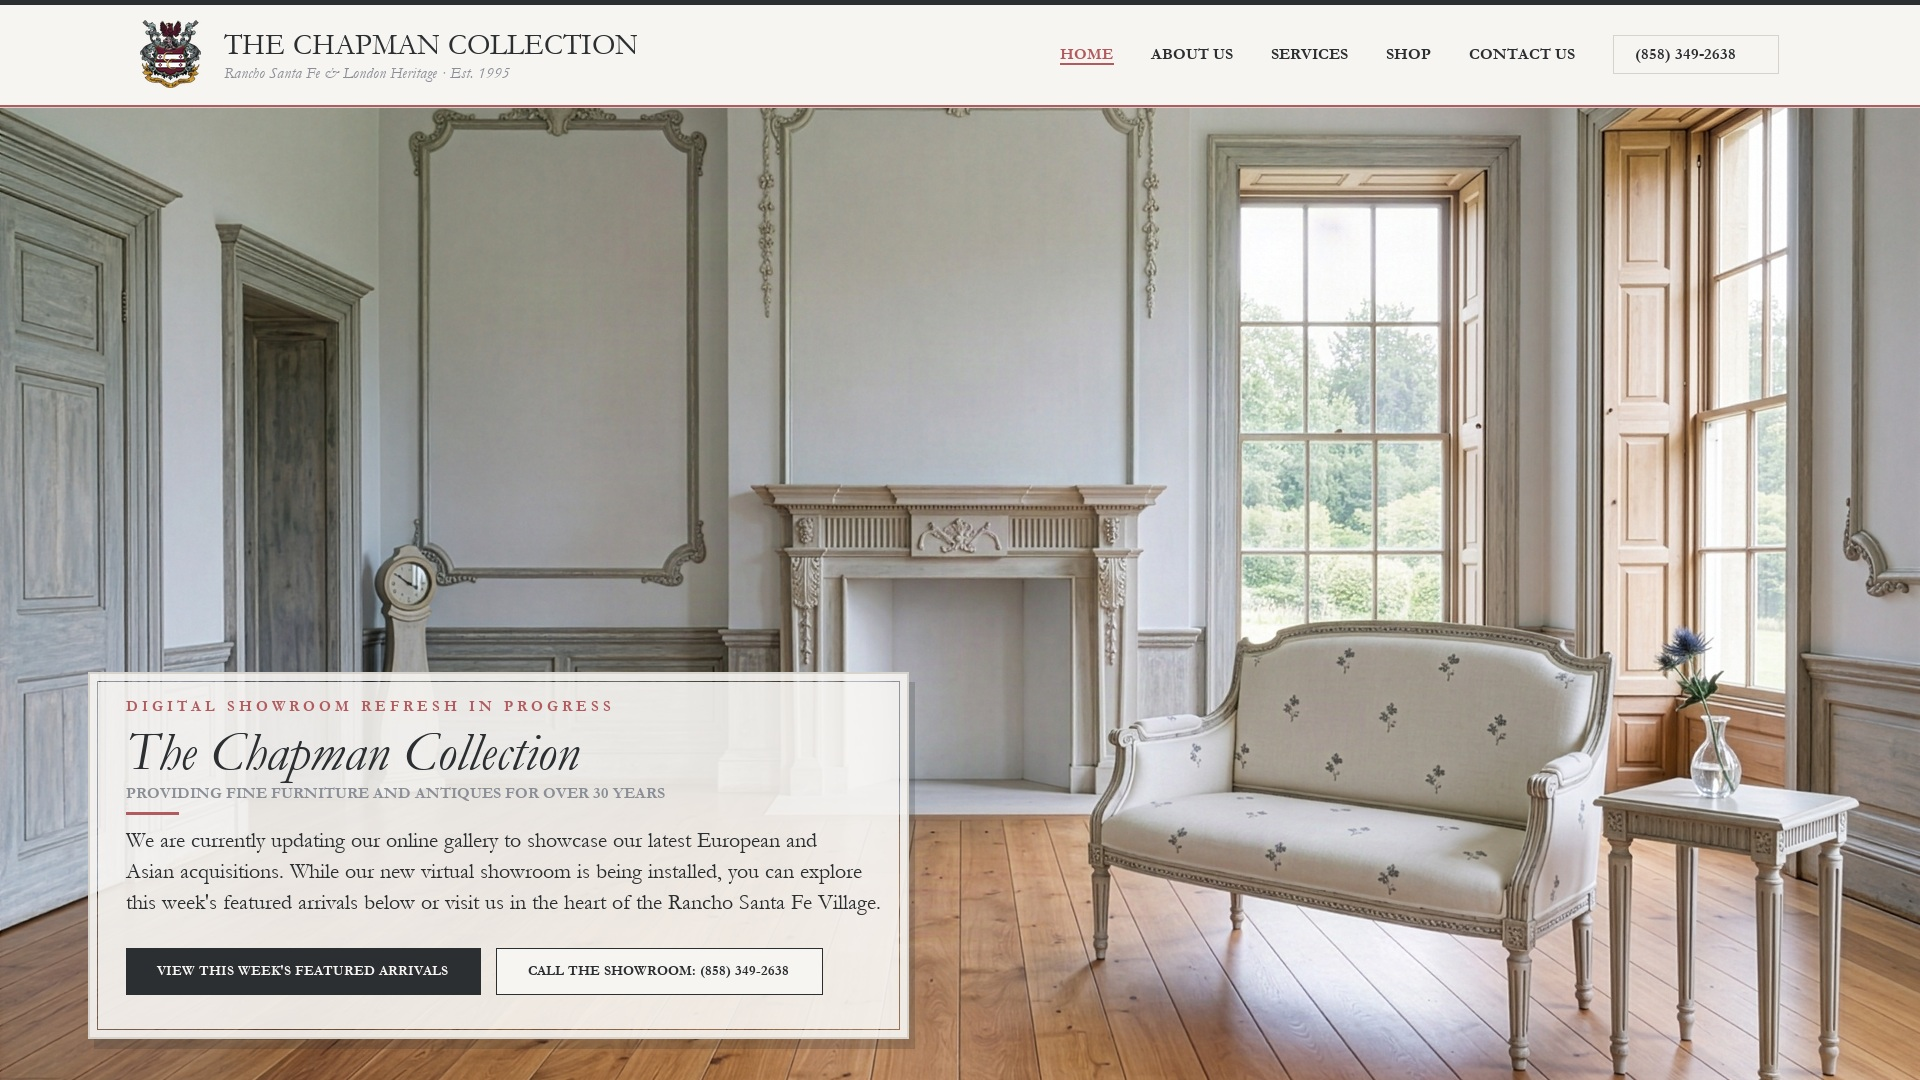
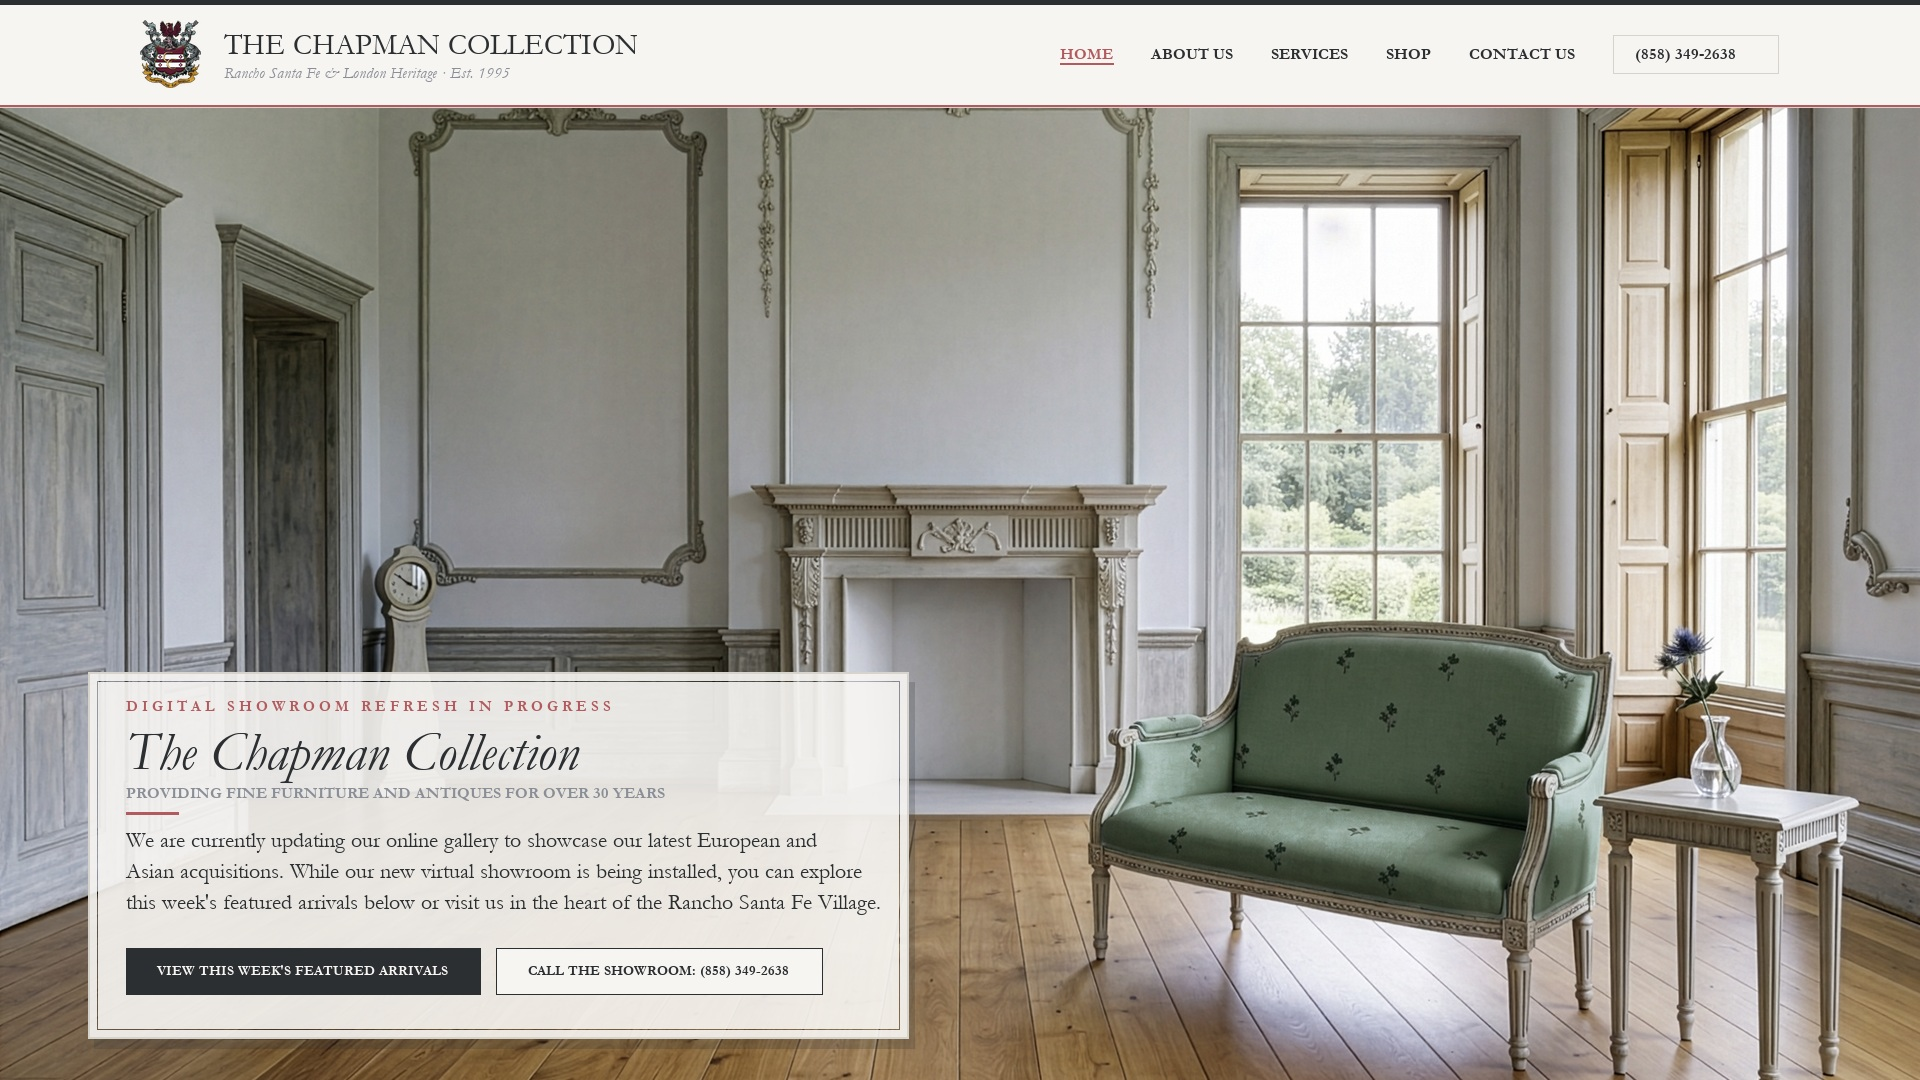
Add the-greenfoam-compromise celadon Gustavian settee hero and interactive switcher

diff --git a/drafts-for-pmc-approval/homepage-refresh-preview/index.html b/drafts-for-pmc-approval/homepage-refresh-preview/index.html
@@ -156,7 +156,7 @@
     aspect-ratio: 16 / 9;
     min-height: 520px;
     max-height: 860px;
-    background-image: url('the-alabaster-hero-2k.jpg');
+    background-image: url('the-greenfoam-compromise.jpg');
     background-size: cover;
     background-position: center center;
     display: flex;
@@ -164,6 +164,36 @@
     justify-content: flex-start;
     padding: 28px 4.5% 3.2% 4.5%;
     border-bottom: 1px solid var(--chaphavian-putty);
+    transition: background-image 0.35s ease;
+  }
+  .hero-variant-switcher {
+    position: absolute;
+    top: 18px;
+    right: 24px;
+    z-index: 10;
+    display: flex;
+    gap: 8px;
+    background: rgba(247, 245, 242, 0.9);
+    border: 1px solid var(--chaphavian-putty);
+    padding: 5px;
+    backdrop-filter: blur(4px);
+  }
+  .hero-variant-btn {
+    font-family: 'Cormorant Garamond', Georgia, serif;
+    font-size: 12px;
+    font-weight: 600;
+    letter-spacing: 0.12em;
+    text-transform: uppercase;
+    padding: 5px 12px;
+    border: 1px solid transparent;
+    background: transparent;
+    color: var(--chaphavian-iron);
+    cursor: pointer;
+    transition: all 0.2s ease;
+  }
+  .hero-variant-btn.active {
+    background: var(--chaphavian-iron);
+    color: var(--chaphavian-alabaster);
   }
   /* Subtle warm plaster vignette so the architectural room stays luminous while framing the card */
   .hero-salon-stage::before {
@@ -429,7 +459,11 @@
   </header>
 
   <!-- 2. SUNLIT GEORGIAN SALON HERO & DIGITAL SHOWROOM REFRESH CARD -->
-  <section class="hero-salon-stage">
+  <section id="hero-stage" class="hero-salon-stage">
+    <div class="hero-variant-switcher">
+      <button type="button" id="btn-greenfoam" class="hero-variant-btn active" onclick="setHeroPlate('the-greenfoam-compromise.jpg', 'btn-greenfoam')">Celadon Green Settee</button>
+      <button type="button" id="btn-alabaster" class="hero-variant-btn" onclick="setHeroPlate('the-alabaster-hero-2k.jpg', 'btn-alabaster')">Alabaster Linen Settee</button>
+    </div>
     <div class="refresh-editorial-card">
       <p class="refresh-kicker">Digital Showroom Refresh in Progress</p>
       <h1 class="refresh-title">The Chapman Collection</h1>
@@ -521,5 +555,17 @@
     </div>
   </section>
 
+<script>
+function setHeroPlate(imgUrl, btnId) {
+  var stage = document.getElementById('hero-stage');
+  if (stage) stage.style.backgroundImage = "url('" + imgUrl + "')";
+  var btns = document.querySelectorAll('.hero-variant-btn');
+  for (var i = 0; i < btns.length; i++) {
+    btns[i].classList.remove('active');
+  }
+  var activeBtn = document.getElementById(btnId);
+  if (activeBtn) activeBtn.classList.add('active');
+}
+</script>
 </body>
 </html>
